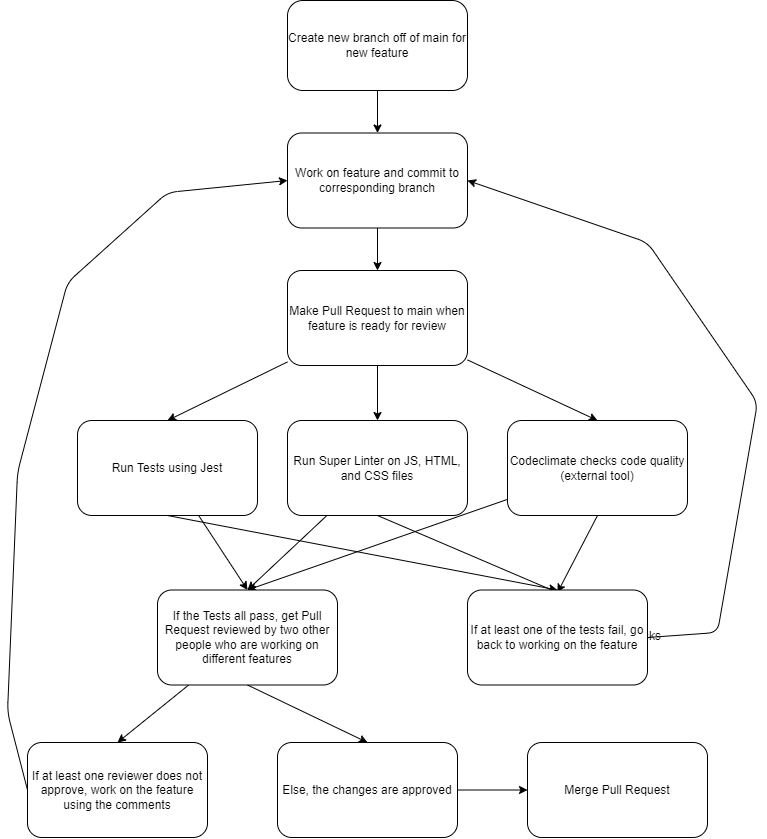
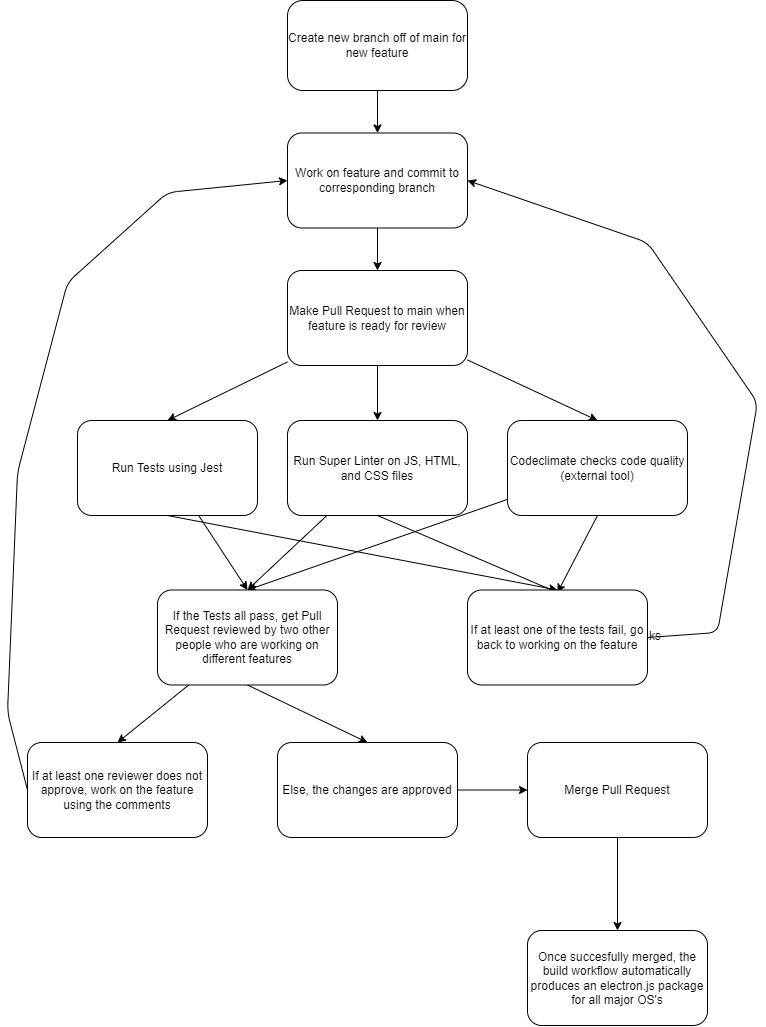
Added electron js info to the phase1 docs

diff --git a/admin/cipipeline/phase1.md b/admin/cipipeline/phase1.md
@@ -9,6 +9,7 @@ We looked into the subsequent suggested features for our pipeline, and here is w
 - code quality via human review (ex. Pull Requests)
 - unit tests via automation (ex. Jest, Tape, Ava, Cypress, Mocha/Chai, etc.)*
 - documentation generation via automation (ex. JSDocs)
+- building/deployment (ex. Electron.js)
 
 
 ## Pipeline so far:
@@ -17,6 +18,9 @@ We looked into the subsequent suggested features for our pipeline, and here is w
 3. The repo is connected to the Codeclimate quality checker which checks for the code's maintainability and test coverage
 4. After these automatic phase are run, the pipeline requires two human reviews and approvals for the code to be pushed to main, ideally by people who did not work on the feature that is being reviewed
 5. If code is approved, merge the branch with main, else if changes are needed continue to commit code to the same branch under the same pull request
+6. When code is merged into main, the build script will be run which will automatically produce electron builds for windows, macOS, and linux
+
+As for step 6, we decided it will only be run when a pull request is approved and successfully merged so that time isn't wasted making builds that aren't fully working.
 
 The above pipeline is run when the devs make a pull request to merge their code to `main`. The pipeline is run again when pushes are made just in case they need to update their feature.
 
